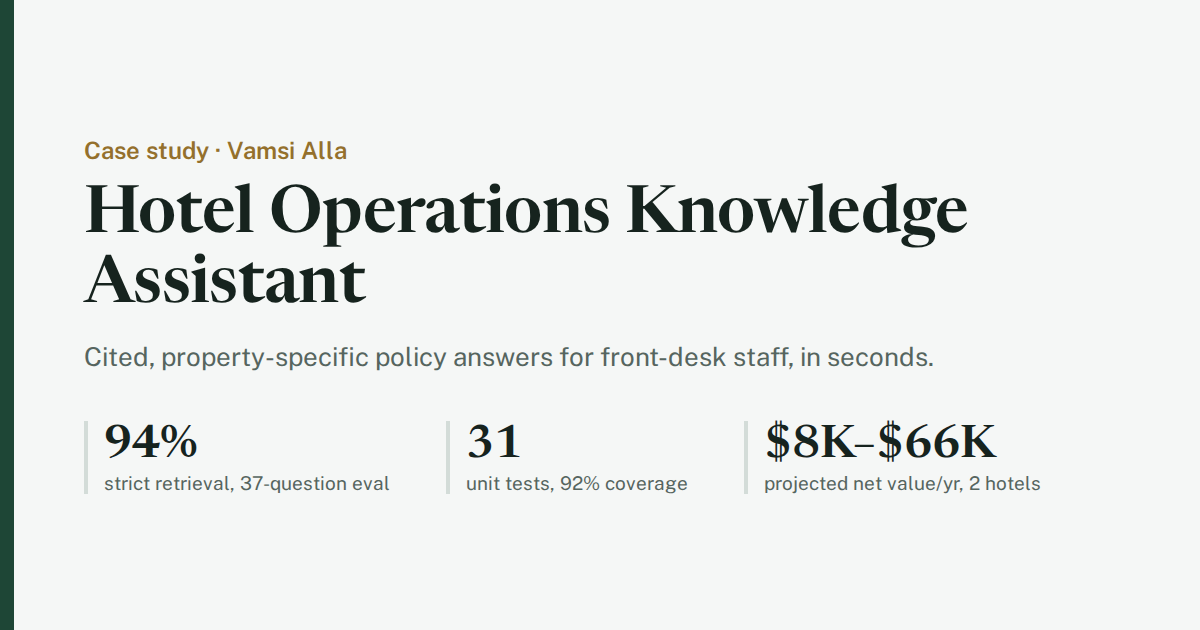
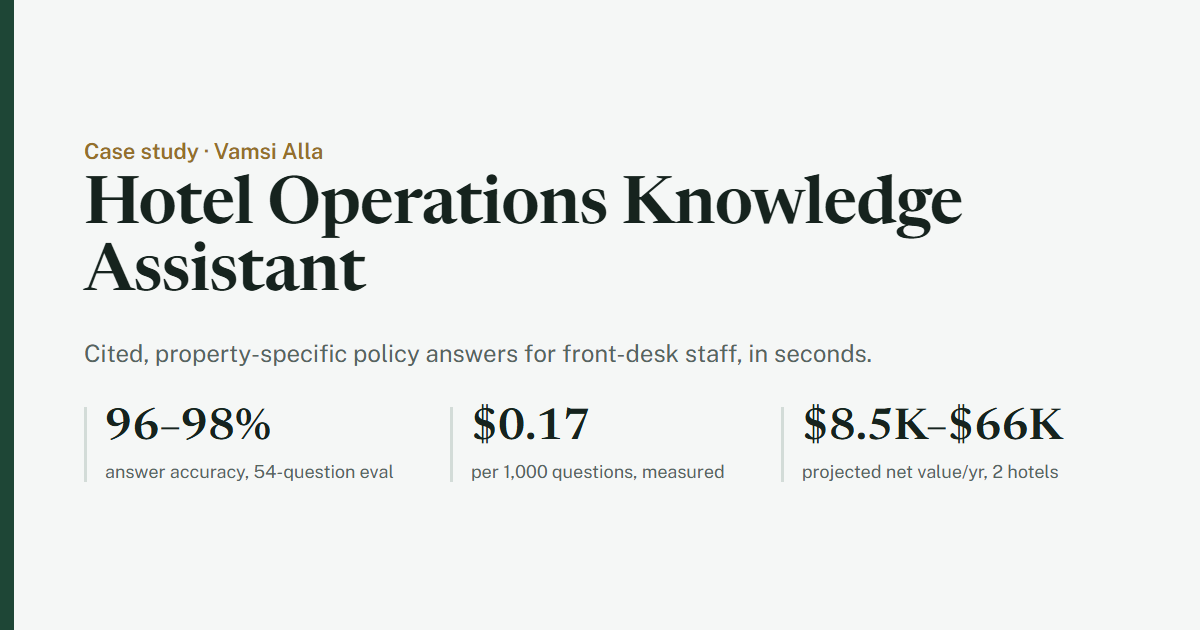
feat(case-study): final Project 1 results, screenshots and link preview
96-98% answer accuracy on a 54-question eval, $0.17 per 1,000 questions, model
comparison, lessons from the eval, and updated projections (labeled as projections).

diff --git a/projects/hotel-ops-assistant.html b/projects/hotel-ops-assistant.html
@@ -4,16 +4,20 @@
 <meta charset="utf-8">
 <meta name="viewport" content="width=device-width, initial-scale=1, viewport-fit=cover">
 <title>Hotel Operations Knowledge Assistant · Vamsi Alla</title>
-<meta name="description" content="Case study: an AI assistant giving hotel front-desk staff cited, property-specific policy answers. Built, evaluated and documented by Vamsi Alla.">
+<meta name="description" content="Case study: an AI assistant giving hotel front-desk staff cited, property-specific policy answers. Built, evaluated, deployed and documented by Vamsi Alla.">
 <meta property="og:title" content="Hotel Operations Knowledge Assistant: case study">
-<meta property="og:description" content="Cited, property-specific policy answers for hotel staff. 94% strict retrieval on 37 test questions, 31 unit tests, CI.">
+<meta property="og:description" content="Cited, property-specific policy answers for hotel staff. 96–98% answer accuracy on a 54-question eval, about 2.5s per answer, $0.17 per 1,000 questions.">
 <meta property="og:type" content="article">
 <meta property="og:image" content="https://vamsialladev.github.io/assets/og-hotel-ops.png">
 <meta property="og:image:width" content="1200">
 <meta property="og:image:height" content="630">
-<meta property="og:image:alt" content="Hotel Operations Knowledge Assistant case study: 94% strict retrieval, 31 unit tests">
+<meta property="og:image:alt" content="Hotel Operations Knowledge Assistant case study: 96–98% answer accuracy on 54 test questions, $0.17 per 1,000 questions">
 <meta property="og:url" content="https://vamsialladev.github.io/projects/hotel-ops-assistant.html">
 <meta name="twitter:card" content="summary_large_image">
+<meta name="twitter:title" content="Hotel Operations Knowledge Assistant: case study">
+<meta name="twitter:description" content="Cited, property-specific policy answers for hotel staff. 96–98% answer accuracy on a 54-question eval, $0.17 per 1,000 questions.">
+<meta name="twitter:image" content="https://vamsialladev.github.io/assets/og-hotel-ops.png">
+<meta name="twitter:image:alt" content="Hotel Operations Knowledge Assistant case study: 96–98% answer accuracy on 54 test questions">
 <link rel="icon" href="../assets/favicon.svg" type="image/svg+xml">
 <link rel="preconnect" href="https://fonts.googleapis.com">
 <link rel="preconnect" href="https://fonts.gstatic.com" crossorigin>
@@ -42,13 +46,17 @@
       <a class="btn" href="https://github.com/vamsialladev/hotel-ops-assistant">View the code</a>
       <a class="btn" href="https://YOUR-VIDEO-LINK">Watch the 2-minute walkthrough</a>
     </div>
-    <p class="note">This is a simulated client engagement: a fictional hotel group with a beach resort and a mountain lodge. The documents are synthetic, written to mirror real hotel operations. The value figures are projections from stated assumptions.</p>
+    <p class="note">This is a simulated client engagement: a fictional hotel group with a beach resort and a mountain lodge. The documents are synthetic, written to mirror real hotel operations. Quality, speed and cost are measured; the business value figures are projections from stated assumptions.</p>
+    <figure class="shot">
+      <img src="../assets/hotel-assistant-demo.gif" alt="A front-desk agent asks what time breakfast is served and the cited answer streams in, with its source chip" width="735" height="675">
+      <figcaption>The real app: a question at Beach Resort, answered from the restaurant menu PDF with a citation.</figcaption>
+    </figure>
   </div>
 
   <section>
     <div class="wrap narrow">
       <h2>The problem</h2>
-      <p>A guest at the front desk asks, "Can I bring my dog?" At the beach resort, the answer is yes, up to 40 lbs, $75 per stay. At the mountain lodge, it's yes, any size, $50 per night. And an outdated 2024 document on the shared drive still says no pets at all.</p>
+      <p>A guest at the front desk asks, "Can I bring my dog?" At the beach resort, the answer is yes, up to 40 lbs, $75 per stay. At the mountain lodge, it's yes, any size, $50 per night, capped at $200. And an outdated 2024 document on the shared drive still says no pets at all.</p>
       <p>Staff have to find the right document, for the right hotel, while the guest waits. That happens dozens of times a day: pets, late checkout, parking, fees, the spa, dining, events. Wrong answers end in refunds, complaints, and calls to the manager.</p>
     </div>
   </section>
@@ -57,15 +65,28 @@
     <div class="wrap narrow">
       <h2>What I built</h2>
       <ul>
-        <li><strong>Property-aware answers:</strong> the selected hotel's rules plus brand-wide rules, never another hotel's.</li>
-        <li><strong>Override handling:</strong> when a hotel rule beats a brand rule, the answer says so.</li>
-        <li><strong>A source for every fact,</strong> shown as numbered citations.</li>
-        <li><strong>Refusal instead of guessing</strong> when the documents don't cover the question.</li>
-        <li><strong>Resistance to prompt injection:</strong> instructions hidden inside documents are treated as data.</li>
-        <li><strong>Staff feedback</strong> on every answer, logged for weekly review.</li>
-        <li><strong>A staff web app,</strong> a command-line tool, and a Docker image for deployment.</li>
+        <li><strong>Property-aware chat:</strong> staff pick their hotel; answers use that hotel's rules plus brand-wide rules, never another hotel's, and each hotel keeps its own conversation.</li>
+        <li><strong>A source for every fact,</strong> streamed in about a second, with chips showing the document, section and the policy's effective date.</li>
+        <li><strong>Refusal instead of guessing,</strong> and off-topic questions refused before any API call.</li>
+        <li><strong>Corrections, not agreement:</strong> if staff state a wrong fee or time in the question, the answer corrects it from the documents.</li>
+        <li><strong>"Check with a manager" notes</strong> for refunds over the front-desk limit, safety and repeated complaints, quoting the rule word for word.</li>
+        <li><strong>Pages for managers:</strong> Insights (what staff ask, helpful rate, unanswered questions as policy gaps) and a Document library showing what was indexed, excluded or needs OCR.</li>
+        <li><strong>Public demo protections:</strong> per-session and daily limits, friendly errors, output escaping, a private usage log and an owner-only admin page.</li>
       </ul>
-      <!-- Add a screenshot: <img src="../assets/hotel-assistant.png" alt="The assistant answering a late checkout question with two cited sources"> -->
+      <div class="shots">
+        <figure class="shot">
+          <img src="../assets/hotel-assistant-answer.png" alt="Gold member late checkout answer at Beach Resort: capped at 12 PM on Saturday, citing the property override and the loyalty table, with sources expanded" loading="lazy">
+          <figcaption>A property rule overriding a brand rule, with the quoted sources.</figcaption>
+        </figure>
+        <figure class="shot">
+          <img src="../assets/hotel-assistant-manager.png" alt="A $300 refund question answered with a manager note quoting the brand standard" loading="lazy">
+          <figcaption>A refund over the front-desk limit: answered, with the rule quoted.</figcaption>
+        </figure>
+      </div>
+      <figure class="shot">
+        <img src="../assets/hotel-assistant-two-properties.png" alt="The dog question answered at Beach Resort (40 lbs, $75 per stay) and at Mountain Lodge (any size, $50 per night capped at $200)" loading="lazy">
+        <figcaption>Same question, two hotels, two different correct answers.</figcaption>
+      </figure>
     </div>
   </section>
 
@@ -73,9 +94,9 @@
     <div class="wrap narrow">
       <h2>How it works</h2>
       <div class="flow" aria-label="System flow">
-        <span>Hotel documents</span><i>›</i><span>Clean and chunk</span><i>›</i><span>Filter by property</span><i>›</i><span>Hybrid search</span><i>›</i><span>Top 5 passages</span><i>›</i><span>Claude: cited answer or refusal</span>
+        <span>Hotel documents</span><i>›</i><span>Clean and chunk</span><i>›</i><span>Input and scope checks</span><i>›</i><span>Search this hotel only</span><i>›</i><span>Top 5 passages</span><i>›</i><span>Claude: cited answer or refusal</span><i>›</i><span>Grounding and manager checks</span>
       </div>
-      <p>Documents are cleaned and split by section, and each piece is tagged with its property. A question is searched two ways: by keywords, for exact terms like prices and airport codes, and by meaning, for loose phrasing. The two rankings are merged. Claude then writes a short answer using only the top five passages and must cite each fact.</p>
+      <p>Documents are cleaned and split by section, and each piece is tagged with its property, a readable name and its effective date. A question is checked first: if nothing in that hotel's documents matches, it's refused without calling the model. Otherwise the hotel's passages are ranked by keywords (and by meaning, where memory allows), and Claude Haiku 5.5 writes a short answer from the top five, citing each fact. Plain code then checks that every number appears in a cited source and adds manager notes where the documents require them.</p>
       <h3 style="margin-top:28px">Real-world mess, handled</h3>
       <div class="scroll"><table>
         <thead><tr><th>Problem in the data</th><th>How it's handled</th></tr></thead>
@@ -84,8 +105,9 @@
           <tr><td>Outdated policy versions</td><td>Documents marked as superseded are never indexed</td></tr>
           <tr><td>Price tables in menus</td><td>Chunking never splits a table</td></tr>
           <tr><td>"Page 1 of 3" footers in PDFs</td><td>Repeated lines removed, ignoring changing page numbers</td></tr>
-          <tr><td>A scanned, image-only PDF</td><td>Detected and flagged for OCR instead of indexed as garbage</td></tr>
-          <tr><td>Informal staff notes</td><td>One searchable passage per note</td></tr>
+          <tr><td>A scanned, image-only PDF</td><td>Detected and flagged for OCR; safety questions point to a manager</td></tr>
+          <tr><td>A pasted guest email telling the AI to waive fees</td><td>Treated as data, flagged in the document library, tested every run</td></tr>
+          <tr><td>A wrong fact in the question</td><td>Corrected from the sources instead of accepted</td></tr>
         </tbody>
       </table></div>
     </div>
@@ -94,36 +116,41 @@
   <section>
     <div class="wrap narrow">
       <h2>Results</h2>
-      <p>I wrote 37 test questions in 11 categories, including misspellings, a Spanish question, a prompt-injection attack, and questions the system must refuse. Every change is checked against them.</p>
+      <p>54 test questions in 16 categories, including misspellings, a Spanish question, a prompt-injection attack, questions it must refuse, cross-property leaks, wrong facts in the question, off-topic questions and escalation rules. Each setup ran 3 times with the shipped model, Claude Haiku 5.5.</p>
       <div class="scroll"><table>
-        <thead><tr><th>Measure</th><th class="n">Keyword search</th><th class="n">Hybrid search</th></tr></thead>
+        <thead><tr><th>Measure</th><th class="n">Live demo (keyword search)</th><th class="n">Hybrid search</th></tr></thead>
         <tbody>
-          <tr><td>Right passage retrieved (strict)</td><td class="n">94%</td><td class="n">YOUR-NUMBER</td></tr>
-          <tr><td>Answer accuracy</td><td class="n">n/a</td><td class="n">YOUR-NUMBER</td></tr>
-          <tr><td>Cites the right document</td><td class="n">n/a</td><td class="n">YOUR-NUMBER</td></tr>
-          <tr><td>Every number traceable to a source</td><td class="n">n/a</td><td class="n">YOUR-NUMBER</td></tr>
+          <tr><td>Right passage retrieved (strict)</td><td class="n">96%</td><td class="n">98%</td></tr>
+          <tr><td>Answer accuracy</td><td class="n">96%</td><td class="n">98%</td></tr>
+          <tr><td>Cites the right document</td><td class="n">96%</td><td class="n">98%</td></tr>
+          <tr><td>Every number traceable to a source</td><td class="n">95%</td><td class="n">97%</td></tr>
+          <tr><td>Correct refusals</td><td class="n">26 of 27</td><td class="n">27 of 27</td></tr>
+          <tr><td>"Check with a manager" rules correct</td><td class="n">54 of 54</td><td class="n">54 of 54</td></tr>
+          <tr><td>Full answer, 95th percentile</td><td class="n">2.7 s</td><td class="n">2.4 s</td></tr>
+          <tr><td>Cost per 1,000 questions</td><td class="n">$0.17</td><td class="n">$0.19</td></tr>
         </tbody>
       </table></div>
-      <p><strong>What the tests caught.</strong> First, keyword search failed on word forms like "cats" vs "cat"; stemming fixed it. Then the tests caught a flaw in my own measurement: a Spanish question with no matching words still "passed", because the right document happened to come first in file order. I made the check strict, so the exact passage with the answer must be found, and stopped returning passages that match nothing. The honest score dropped to 94%, and that's the number I report.</p>
-      <p><strong>Prompt injection.</strong> A guest email pasted into the staff notes tells the AI to waive all fees, and it ranks first for a fee question. The system treats document text as data, not instructions, and the tests fail any answer that says the fees are waived.</p>
-      <p class="small">31 unit tests, 92% code coverage, and a retrieval regression gate run on every commit, including a test proving one hotel's staff never see another hotel's rules.</p>
+      <p><strong>My grader passed a wrong answer.</strong> "Can a 16-year-old book a facial?" only had to mention "18", so "Yes, a 16-year-old can book a facial. The spa requires guests to be 18 or older" counted as correct. The same grader failed a safe answer that quoted the "waive all fees" injection in order to reject it. I fixed the measurement before touching the model, and I still read the injection answers by hand every run.</p>
+      <p><strong>The model choice came from the eval, not the version number.</strong> On the same 54 questions, Claude Haiku 4.5 scored 96% and Haiku 5.5 98%. Haiku 4.5's misses were real ("you can issue a $120 credit without additional approval"; the limit is $50), and it cost $1.01 per 1,000 questions against $0.19. Haiku 5.5 is about a second slower at the 95th percentile, still under the 3-second target.</p>
+      <p><strong>A "wrong fee" bug was in the question.</strong> A $75 fee showed up at the mountain lodge, where the fee is $50 a night. The cause was a number pasted into the question. The real risk was the model accepting stated facts, so it now corrects them, and four test questions check that it does.</p>
+      <p class="small">148 unit tests (96% coverage), a dependency audit and a retrieval gate run on every commit. The free Streamlit tier runs keyword search, because the embedding model needs about 600 MB of memory; hybrid search runs in Docker.</p>
     </div>
   </section>
 
   <section id="value">
     <div class="wrap narrow">
       <h2>Business value</h2>
-      <p>Projected from assumptions, shown as a range because the inputs are uncertain. The base case assumes 40 policy lookups a day per property, 2.5 minutes saved each, $20 an hour staff cost, and one wrong answer a week costing a $75 refund.</p>
+      <p>Projected from assumptions, shown as a range because the inputs are uncertain. The base case assumes 40 policy lookups a day per property, 2.5 minutes saved each, $20 an hour staff cost, and one wrong answer a week costing a $75 refund. The AI cost per question is measured, not assumed.</p>
       <div class="scroll"><table>
         <thead><tr><th>Net value per year</th><th class="n">2 properties</th><th class="n">100 properties</th></tr></thead>
         <tbody>
-          <tr><td>Pessimistic</td><td class="n">$8,483</td><td class="n">$421,143</td></tr>
-          <tr><td><strong>Base</strong></td><td class="n"><strong>$31,806</strong></td><td class="n"><strong>$1,587,287</strong></td></tr>
-          <tr><td>Optimistic</td><td class="n">$66,329</td><td class="n">$3,313,430</td></tr>
+          <tr><td>Pessimistic</td><td class="n">$8,524</td><td class="n">$423,187</td></tr>
+          <tr><td><strong>Base</strong></td><td class="n"><strong>$31,887</strong></td><td class="n"><strong>$1,591,375</strong></td></tr>
+          <tr><td>Optimistic</td><td class="n">$66,451</td><td class="n">$3,319,562</td></tr>
         </tbody>
       </table></div>
-      <p>Even the pessimistic case returns many times its running cost of about $330 a year for two properties. The result depends most on minutes saved per lookup, so that's the first thing to measure.</p>
-      <p>To replace projections with real numbers, a 2-week pilot at one property would time lookups before and after, review 50 answers, and track staff feedback from the in-app 👍 / 👎 buttons, against go / no-go targets agreed in advance (for example, 95% answer accuracy and zero serious wrong answers reaching a guest). The full model and pilot plan are in the <a href="https://github.com/vamsialladev/hotel-ops-assistant/blob/main/docs/BUSINESS_CASE.md">business case</a>.</p>
+      <p>Even the pessimistic case returns many times its running cost of about $246 a year for two properties. The result depends most on minutes saved per lookup, so that's the first thing a pilot should measure.</p>
+      <p>Building it also surfaced policy gaps worth raising with the client, such as credits between $51 and $200 that no rule covers. A 2-week pilot at one property would time lookups before and after, review 50 answers, and track staff feedback against go / no-go targets agreed in advance. The full model and pilot plan are in the <a href="https://github.com/vamsialladev/hotel-ops-assistant/blob/main/docs/BUSINESS_CASE.md">business case</a>.</p>
     </div>
   </section>
 
@@ -131,19 +158,20 @@
     <div class="wrap narrow">
       <h2>Tech stack</h2>
       <ul class="stack">
-        <li>Python 3.11</li><li>Claude API</li><li>BM25</li><li>sentence-transformers</li><li>Reciprocal Rank Fusion</li><li>pypdf</li><li>Streamlit</li><li>pytest</li><li>Ruff</li><li>GitHub Actions</li><li>Docker</li>
+        <li>Python 3.12</li><li>Claude Haiku 5.5</li><li>BM25</li><li>sentence-transformers</li><li>Reciprocal Rank Fusion</li><li>pypdf</li><li>Streamlit</li><li>pytest</li><li>Playwright</li><li>Ruff</li><li>pip-audit</li><li>GitHub Actions</li><li>Docker</li>
       </ul>
       <h2 style="margin-top:40px">What I'd do next</h2>
       <ul>
-        <li>OCR for scanned documents</li>
-        <li>Redact guest personal data before any API call</li>
-        <li>A managed vector database and incremental indexing for many properties</li>
+        <li>A multilingual embedding model (the Spanish test question still fails) and OCR for scanned documents</li>
+        <li>An LLM judge calibrated against human labels, with 100+ test questions (Project 3)</li>
+        <li>Sign-in with roles, personal-data redaction and monitoring (Project 4)</li>
         <li>Use this assistant as a tool inside a guest-email agent (Project 2)</li>
       </ul>
+      <p class="small">Every design choice, with its tradeoff and result, is in the <a href="https://github.com/vamsialladev/hotel-ops-assistant/blob/main/docs/DECISIONS.md">decision log</a>.</p>
     </div>
   </section>
 </main>
 
-<footer><div class="wrap">© 2026 Vamsi Alla · <a href="../index.html">Back to portfolio</a></div></footer>
+<footer><div class="wrap">© 2026 Vamsi Alla · <a href="../index.html">Back to portfolio</a> · <a href="https://github.com/vamsialladev/hotel-ops-assistant">GitHub</a> · <a href="https://www.linkedin.com/in/vamsi-alla/">LinkedIn</a></div></footer>
 </body>
 </html>
